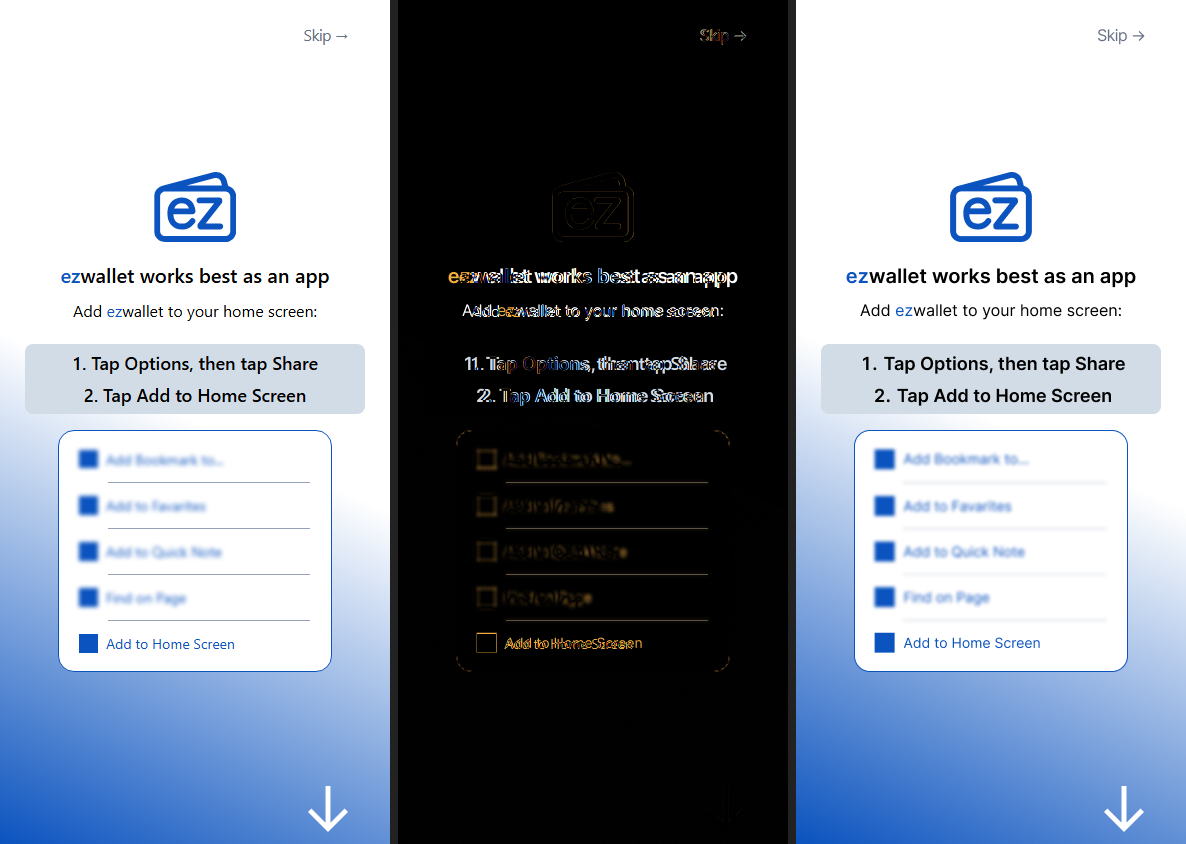
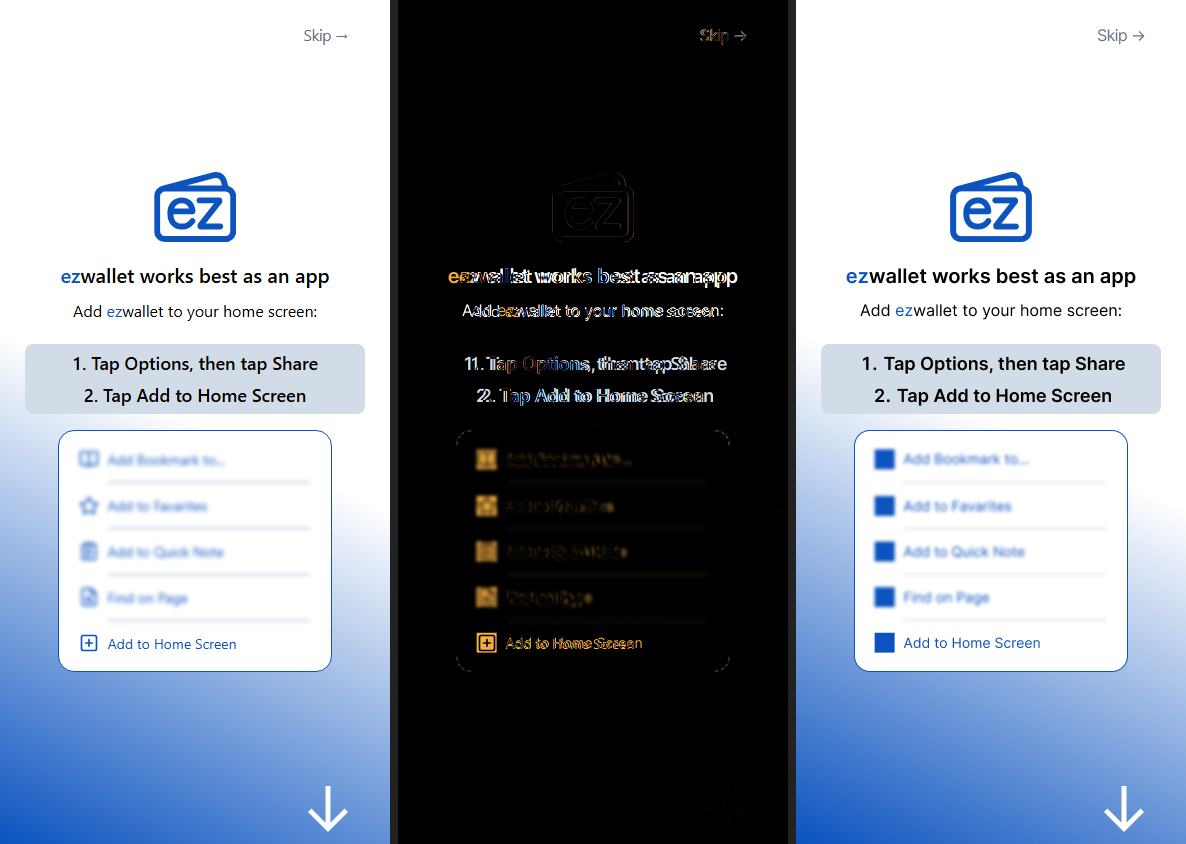
Move the whole app to Lucide, and finish the Add screen's share sheet
Icon set: the app's 37 hand-drawn SVGs are replaced by Lucide (~6,300 icons,
MIT, tree-shaking). Because src/components/Icon.jsx keeps its exact API, this is
one file and not a change to any of the ~20 screens that render icons. The
mapping was made by LOOKING at each old glyph, not by matching names, because
several names lie about their shape: right2 was a solid play triangle used as a
row chevron, down2 a solid triangle used as a dropdown caret, and qr was four
plain squares. Bundle cost measured after the swap: +0.45 kB raw, +0.17 kB
gzipped, so the tree-shaking works.

luckypot stays on the user's original SVG. It is a full-colour illustration and
Lucide is monochrome stroke art, so swapping it would quietly turn the Service
Hub card into a grey outline. The icon/ folder is kept for the same reason: those
are the user's drawings, not ours to delete.

Add screen, two corrections from the user:
- The hairlines between share-sheet rows are blurred too. Figma bakes a gaussian
  filter into the divider asset itself (filter0_f_0_4); the first pass swapped it
  for a crisp CSS rule and lost that. The blur is deliberate - only the "Add to
  Home Screen" row and its icon stay sharp.
- The flat blue squares are placeholders meaning "find a similar icon". Each row
  now carries what iOS actually draws there, matched against the user's photo of
  the real share sheet: BookOpen, Star, NotepadText, FileSearch, SquarePlus.
[…]

diff --git a/src/components/Icon.jsx b/src/components/Icon.jsx
@@ -1,59 +1,120 @@
-// Shared icon component - inlines the SVG (currentColor) → recolour via the color prop / the parent text colour.
-// The SVGs are normalised: viewBox 100x100, stroke/fill = currentColor, width/height 100%.
-// ⚠ 07-29 (audit): 8 icons that no screen renders had their IMPORT REMOVED here to keep the bundle light -
-// back · dca · facebook · google · hint · left · right · swap. The .svg FILES ARE STILL in `icon/`
-// (the user's drawings, not deleted). To use one again: add one import line + one name to ICONS.
-import add from '../../icon/add.svg?raw'
-import check from '../../icon/check.svg?raw'
-import clock from '../../icon/clock.svg?raw'
-import copy from '../../icon/copy.svg?raw'
-import down from '../../icon/down.svg?raw'
-import down2 from '../../icon/down2.svg?raw'
-import download from '../../icon/download.svg?raw'
-import erase from '../../icon/erase.svg?raw'
-import exchange from '../../icon/exchange.svg?raw'
-import globe from '../../icon/globe.svg?raw'
-import hub from '../../icon/hub.svg?raw'
-import human from '../../icon/human.svg?raw'
-import info from '../../icon/info.svg?raw'
-import luckypot from '../../icon/luckypot.svg?raw'
-import mail from '../../icon/mail.svg?raw'
-import menu from '../../icon/menu.svg?raw'
-import option from '../../icon/option.svg?raw'
-import out from '../../icon/out.svg?raw'
-import pencil from '../../icon/pencil.svg?raw'
-import qr from '../../icon/qr.svg?raw'
-import right2 from '../../icon/right2.svg?raw'
-import scan from '../../icon/scan.svg?raw'
-import share from '../../icon/share.svg?raw'
-import shield from '../../icon/shield.svg?raw'
-import trade from '../../icon/trade.svg?raw'
-import up from '../../icon/up.svg?raw'
-import warning from '../../icon/warning.svg?raw'
-import x from '../../icon/x.svg?raw'
+// Shared icon component. SAME API as before - `<Icon name="qr" size={24} color="..." />` - so switching
+// the whole app's icon set is this one file and NOT a change to any of the ~20 screens that render icons.
+//
+// 2026-09-23: the app moved from the user's 37 hand-drawn SVGs in `icon/` to LUCIDE (user decision:
+// "thư viện icon dùng 1 thư viện lớn, đẹp" → Lucide, replace everything). Lucide is ~6,300 icons, MIT,
+// 24px grid / 2px stroke, and it tree-shakes: only the icons named below are bundled, not the library.
+//
+// ⚠ THE `icon/` FOLDER IS DELIBERATELY NOT DELETED. Those are the user's own drawings. Nothing imports
+// them any more except `luckypot` (see below), but they are the fallback if a Lucide glyph turns out
+// wrong on a real device, and they are not ours to throw away.
+//
+// ⚠ THE MAPPING BELOW WAS MADE BY LOOKING AT EVERY OLD GLYPH, NOT BY MATCHING NAMES. Several old names
+// lie about their shape: `right2` was a solid PLAY TRIANGLE used as a chevron, `down2` was a solid
+// DOWN TRIANGLE used as a dropdown caret, `trade` and `exchange` were both up/down arrow pairs, and `qr`
+// was four squares rather than a QR code. Each is mapped to what it DID, not to what it was called.
+import {
+  Plus,             // add       - a thin plus
+  CircleCheck,      // check     - tick inside a circle (the Receipt's big success mark)
+  Clock,            // clock
+  Copy,             // copy      - two overlapping squares
+  ArrowDown,        // down      - a plain down arrow (money received)
+  ChevronDown,      // down2     - WAS a solid triangle; it is a dropdown caret, so a chevron is the honest shape
+  Download,         // download  - arrow into a tray
+  Delete,           // erase     - backspace key with an x (the numpad)
+  ArrowUpDown,      // exchange  - a pair of vertical arrows
+  Globe,            // globe
+  LayoutGrid,       // hub       - 2x2 rounded squares (the Services tab)
+  User,             // human     - a person (Contacts)
+  Info,             // info
+  Mail,             // mail
+  Menu,             // menu      - hamburger
+  EllipsisVertical, // option    - three vertical dots
+  LogOut,           // out       - arrow leaving a bracket (Sign out / Exit)
+  Pencil,           // pencil
+  QrCode,           // qr        - WAS four plain squares; the thing it means is a QR code
+  ChevronRight,     // right2    - WAS a solid play triangle, used as a row chevron
+  Scan,             // scan      - viewfinder corners
+  Share2,           // share     - three connected nodes
+  Shield,           // shield
+  ArrowUpDown as TradeArrows, // trade - the same up/down pair as `exchange`, drawn heavier
+  ArrowUp,          // up        - a plain up arrow (money sent)
+  CircleAlert,      // warning   - an exclamation mark inside a circle
+  X,                // x         - a plain cross
+  // New with the 2026-09-23 redesign - the fake iOS share sheet on the Add screen needs Apple's own
+  // five rows, so these match what iOS actually draws (see the user's screenshot of the real sheet).
+  BookOpen,         // Add Bookmark to...  - an open book
+  Star,             // Add to Favorites    - an outlined star
+  NotepadText,      // Add to Quick Note   - a note pad
+  FileSearch,       // Find on Page        - a document with a magnifier
+  SquarePlus,       // Add to Home Screen  - a plus inside a rounded square
+} from 'lucide-react'
 
-// ⚠ luckypot · exchange = viewBox 200×200 (every other icon is 100×100). DELIBERATE - the user drew them
-// at double size because these render LARGE in the Service Hub, so relatively thinner strokes are the intent.
-// Do NOT "normalise" them to 100×100 or double the stroke-width. No display impact: width/height = 100%, the viewBox scales.
-// ⚠ luckypot is a FULL-COLOUR icon (yellow #FFCC00 + green #16A34A + black outline) - the user's drawing is kept
-// as-is on purpose, NOT converted to currentColor. Consequence: the `color` prop has no effect on this one.
-// `pig` (Piggy Bank) - unregistered 2026-09-07, no screen renders it any more (see ServiceHub.jsx's note on the
-// new Figma frame dropping the card). File kept at icon/pig.svg - add the import + a name back here to reuse it.
-// (A LI.FI brand-asset icon was tried here the same day and reverted - the Exchange card actually goes through
-// Circle's Stablecoin Kit, not LI.FI directly - see ServiceHub.jsx's SERVICES description.)
+// ⚠ THE ONE ICON THAT IS NOT LUCIDE. `luckypot` is a FULL-COLOUR drawing (yellow #FFCC00 bag + green
+// #16A34A ground + black outline) at viewBox 200x200. Lucide is monochrome stroke art, so there is no
+// equivalent - swapping it would silently turn the Service Hub's LuckyPot card from a colour illustration
+// into a grey outline. Kept as the user's original SVG; the `color` prop still has no effect on it.
+// (LuckyPot may be dropped entirely - the user said on 2026-09-23 that Exchange is to be the only
+// sub-app on mainnet - but that is a separate decision, so the icon stays working until then.)
+import luckypotSvg from '../../icon/luckypot.svg?raw'
+
 const ICONS = {
-  add, check, clock, copy, down, down2, download, erase, exchange, globe, hub,
-  human, info, luckypot, mail, menu, option, out, pencil, qr, right2, scan, share, shield, trade, up, warning, x,
+  add: Plus,
+  check: CircleCheck,
+  clock: Clock,
+  copy: Copy,
+  down: ArrowDown,
+  down2: ChevronDown,
+  download: Download,
+  erase: Delete,
+  exchange: ArrowUpDown,
+  globe: Globe,
+  hub: LayoutGrid,
+  human: User,
+  info: Info,
+  mail: Mail,
+  menu: Menu,
+  option: EllipsisVertical,
+  out: LogOut,
+  pencil: Pencil,
+  qr: QrCode,
+  right2: ChevronRight,
+  scan: Scan,
+  share: Share2,
+  shield: Shield,
+  trade: TradeArrows,
+  up: ArrowUp,
+  warning: CircleAlert,
+  x: X,
+  // the Add screen's share sheet
+  bookmark: BookOpen,
+  star: Star,
+  note: NotepadText,
+  find: FileSearch,
+  addSquare: SquarePlus,
 }
 
 export default function Icon({ name, size = 24, color, style, className }) {
-  const svg = ICONS[name]
-  if (!svg) return null
+  // The colour illustration takes the old inline-SVG path; everything else is a Lucide component.
+  if (name === 'luckypot') {
+    return (
+      <span
+        className={className}
+        style={{ display: 'inline-flex', width: size, height: size, flexShrink: 0, ...style }}
+        dangerouslySetInnerHTML={{ __html: luckypotSvg }}
+      />
+    )
+  }
+
+  const Glyph = ICONS[name]
+  if (!Glyph) return null
+  // `color` stays optional exactly as before: unset → the glyph inherits the parent's text colour,
+  // which is what every call site that omits it already relies on.
   return (
     <span
       className={className}
-      style={{ display: 'inline-flex', width: size, height: size, color, flexShrink: 0, ...style }}
-      dangerouslySetInnerHTML={{ __html: svg }}
-    />
+      style={{ display: 'inline-flex', width: size, height: size, color, flexShrink: 0, ...style }}>
+      <Glyph size={size} color="currentColor" absoluteStrokeWidth={false} />
+    </span>
   )
 }

diff --git a/src/screens/AddToHome.jsx b/src/screens/AddToHome.jsx
@@ -1,4 +1,5 @@
 import { useNav } from '../nav'
+import Icon from '../components/Icon'
 import { bootTarget, A2HS_KEY } from '../boot'
 import logoIcon from '../../design/logo-icon.svg'
 import arrowDown from '../../design/arrow-down.svg'
@@ -20,11 +21,11 @@ const GRADIENT = 'linear-gradient(204.80096509205717deg, #FFFFFF 50%, #0B53BF 10
 // ⚠ "Favarites" is spelled that way in the Figma file. Kept verbatim; it sits under a 2px blur and is
 // effectively unreadable, but it is a typo - flagged to the user 2026-09-23.
 const SHEET_ROWS = [
-  { label: 'Add Bookmark to...', blur: true },
-  { label: 'Add to Favarites',   blur: true },
-  { label: 'Add to Quick Note',  blur: true },
-  { label: 'Find on Page',       blur: true },
-  { label: 'Add to Home Screen', blur: false },
+  { label: 'Add Bookmark to...', icon: 'bookmark',  blur: true },
+  { label: 'Add to Favarites',   icon: 'star',      blur: true },
+  { label: 'Add to Quick Note',  icon: 'note',      blur: true },
+  { label: 'Find on Page',       icon: 'find',      blur: true },
+  { label: 'Add to Home Screen', icon: 'addSquare', blur: false },
 ]
 
 // "ez" is always brand blue inside a run of black text - the wordmark rule, applied in running copy.
@@ -103,7 +104,11 @@ export default function AddToHome() {
       </ol>
 
       {/* The fake iOS share sheet - node 48:358: 274x242 @ (58,430), white, 1px brand border, radius 16.
-          Inside it, five evenly-split rows separated by hairlines. The rows are laid out with flex rather
+          Inside it, five evenly-split rows separated by hairlines - the hairlines are blurred TOO
+          (Figma bakes a gaussian filter into the divider asset itself, `filter0_f_0_4`). The user's
+          rule, 2026-09-23: the blur is deliberate and ONLY the "Add to Home Screen" row and its icon
+          stay sharp. Everything else on this picture - text, icons, rules - is soft.
+          The rows are laid out with flex rather
           than five absolute coordinates: they are one repeated object, and Figma's own y values for them
           (29.3 / 76.0 / 121.5 / 167.1 / 212.7 from the box top) are an even 45.6px step. */}
       <div style={{
@@ -117,16 +122,22 @@ export default function AddToHome() {
             {/* Hairline ABOVE every row but the first - node 48:368/369/372/373: #94A3B8, and inset to
                 start at the TEXT, not at the icon, exactly as a real iOS menu draws it. */}
             {i > 0 && (
-              <div style={{ height: 1, background: 'var(--color-muted)', marginLeft: '18.04%', marginRight: '7.86%' }} />
+              <div style={{
+                height: 1, background: 'var(--color-muted)',
+                marginLeft: '18.04%', marginRight: '7.86%',
+                filter: 'blur(2px)',
+              }} />
             )}
             <div style={{
               flex: 1, display: 'flex', alignItems: 'center',
               paddingLeft: '7.54%', gap: '3.19%',
               filter: row.blur ? 'blur(2px)' : 'none',
             }}>
-              {/* Figma draws a FLAT 20x20 BRAND-BLUE SQUARE here, with no icon inside it - nodes
-                  48:361/363/365/367/371. Reproduced as drawn. */}
-              <span style={{ width: '7.31%', aspectRatio: '1 / 1', background: 'var(--color-brand)', flex: 'none' }} />
+              {/* Figma draws a flat 20x20 blue SQUARE at each of these (nodes 48:361/363/365/367/371).
+                  The user settled what they mean on 2026-09-23: they are PLACEHOLDERS - "vào thư viện
+                  icon, tìm cái tương tự rồi add vào" - so each one carries the icon iOS actually draws
+                  on that row, matched against the user's screenshot of the real share sheet. */}
+              <Icon name={row.icon} size={20} color="var(--color-brand)" />
               <span style={{ fontSize: 14, color: 'var(--color-brand)', whiteSpace: 'nowrap' }}>{row.label}</span>
             </div>
           </div>
